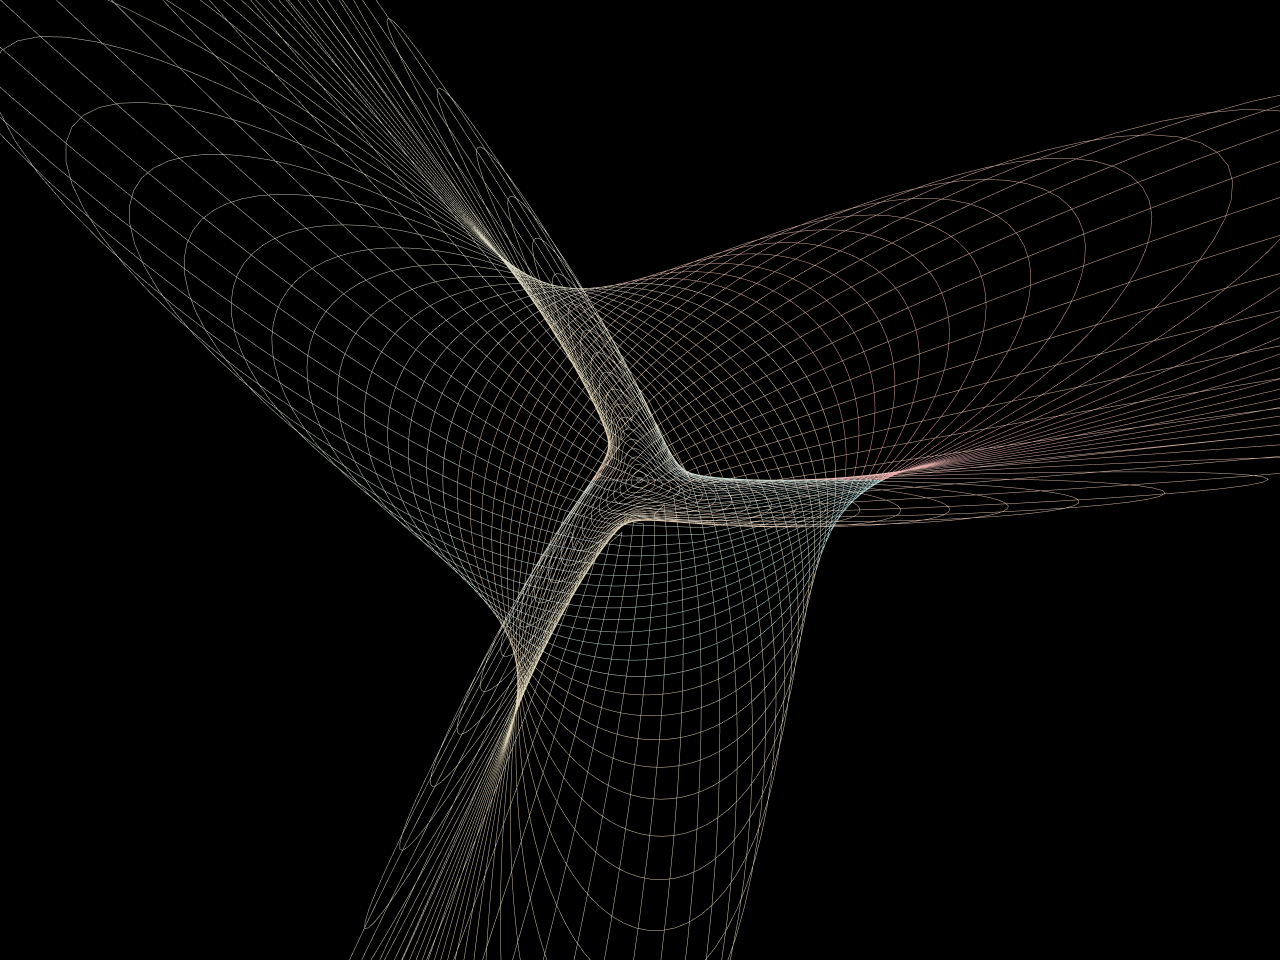
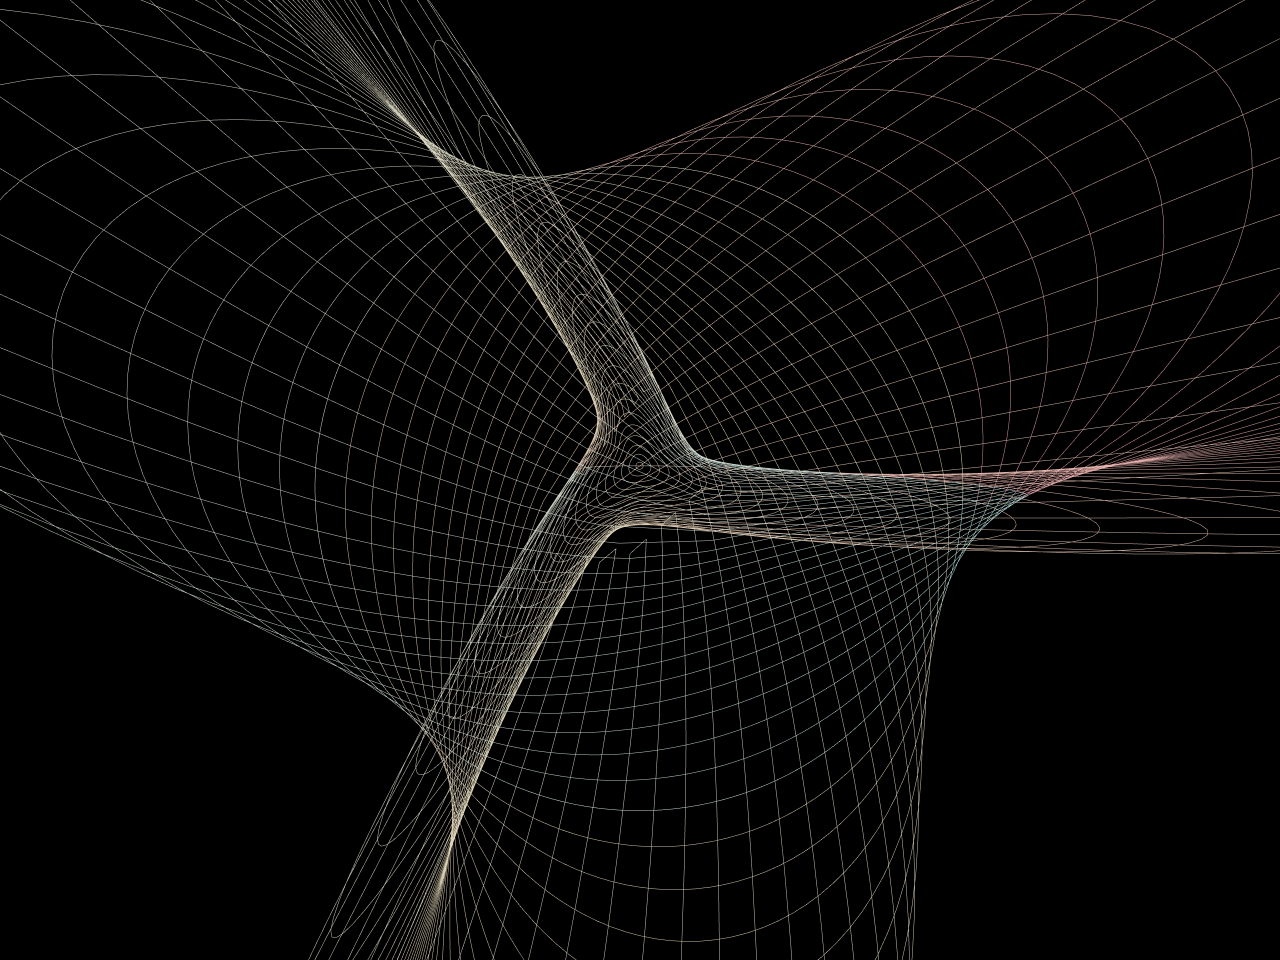
Boy trails: fill frame, open wire spacing.

diff --git a/packages/frontend/src/utils/boySurface.ts b/packages/frontend/src/utils/boySurface.ts
@@ -6,7 +6,7 @@ const U_RES = 80
 const V_RES = 80
 const TARGET_R = 1.7
 /** Trails / wires fill the frame better than the mesh scale. */
-const TARGET_R_TRAIL = 2.55
+const TARGET_R_TRAIL = 3.1
 
 export type BoyPoint = {
 	x: number
@@ -249,7 +249,7 @@ export function sampleBoyScanline(nu = 160, nv = 96): BoyCloud {
  * Constant-u / constant-v curves as a point wire.
  * Fewer curves than a dense grid — keeps the triple-point open instead of a white clump.
  */
-export function sampleBoyIsolines(nu = 16, nv = 16, samples = 240): BoyCloud {
+export function sampleBoyIsolines(nu = 18, nv = 18, samples = 96): BoyCloud {
 	const count = (nu + nv) * samples
 	const positions = new Float32Array(count * 3)
 	const colors = new Float32Array(count * 3)
@@ -283,7 +283,7 @@ export function sampleBoyIsolines(nu = 16, nv = 16, samples = 240): BoyCloud {
 		}
 	}
 	centerAndScale(positions, TARGET_R_TRAIL)
-	return thinNearOrigin(positions, colors, 0.42)
+	return thinNearOrigin(positions, colors, 0.55)
 }
 
 /** Drop verts inside a ball so the triple-point does not paint solid white. */

diff --git a/packages/frontend/src/pages/misc/boy_jury_isolines.tsx b/packages/frontend/src/pages/misc/boy_jury_isolines.tsx
@@ -47,9 +47,9 @@ const BoyJuryIsolines = () => {
 		<Base<TData>
 			dimension={EDimensions.THREE_D}
 			numParticles={cloud.count}
-			pointSize={0.055}
+			pointSize={0.07}
 			tick={tick}
-			cameraPosition={[0, 0, 2.45]}
+			cameraPosition={[0, 0.15, 2.05]}
 			autoRotate={!isScreenshotMode()}
 			autoRotateSpeed={0.28}
 		/>

diff --git a/packages/frontend/src/pages/misc/boy_jury_lines.tsx b/packages/frontend/src/pages/misc/boy_jury_lines.tsx
@@ -59,7 +59,7 @@ const BoyJuryLines = () => {
 			lineOpacity={0.92}
 			autoRotate={!isScreenshotMode()}
 			autoRotateSpeed={0.32}
-			cameraPosition={[0, 0, 2.45]}
+			cameraPosition={[0, 0.15, 2.05]}
 		/>
 	)
 }
